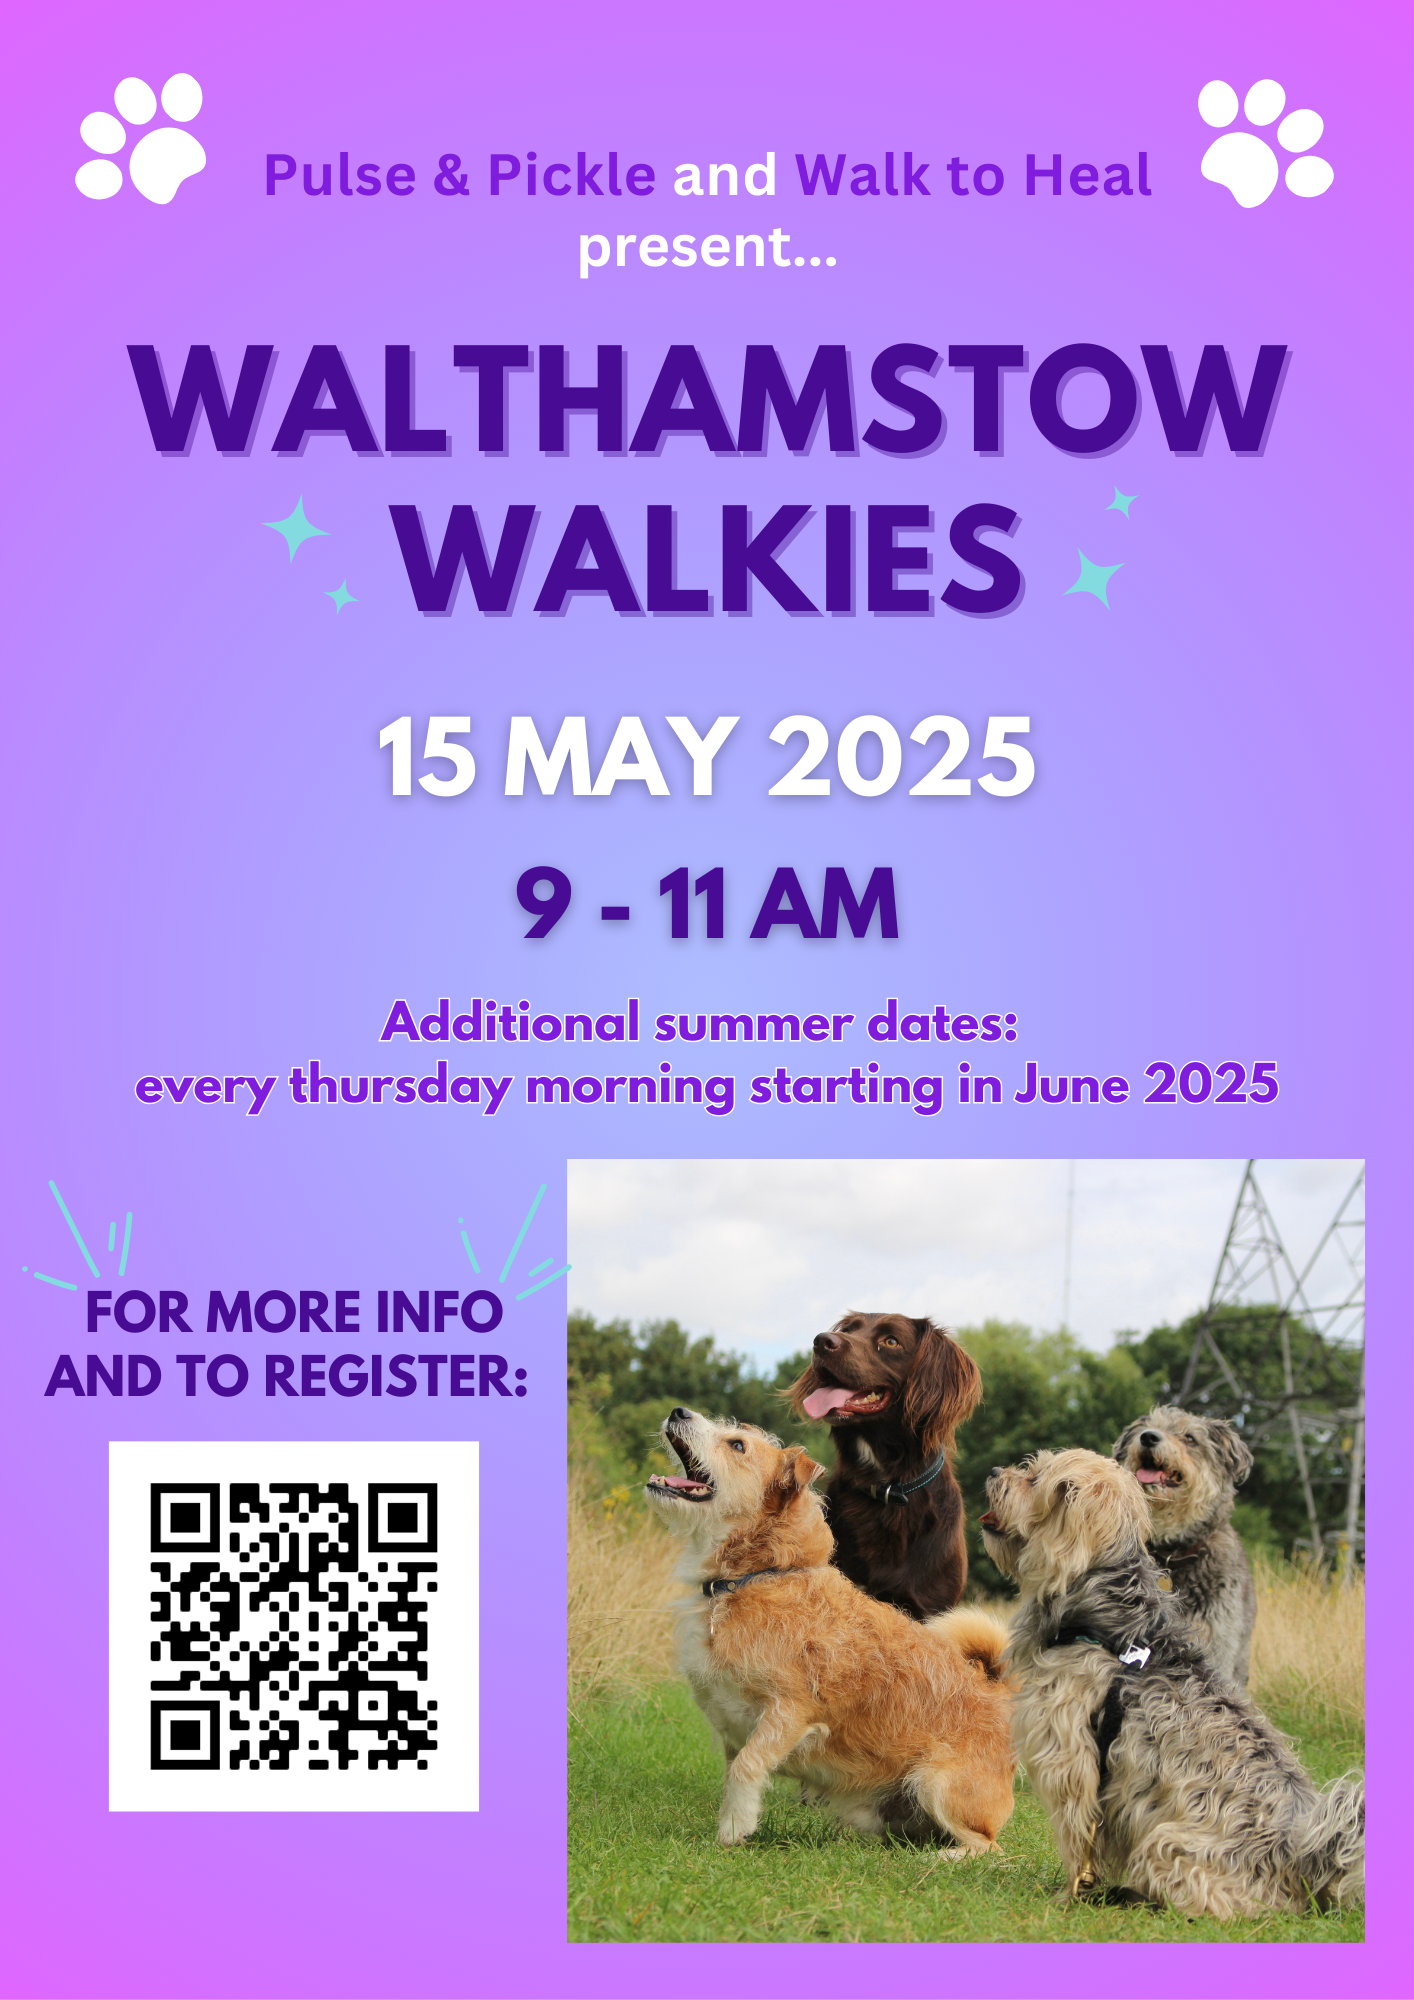
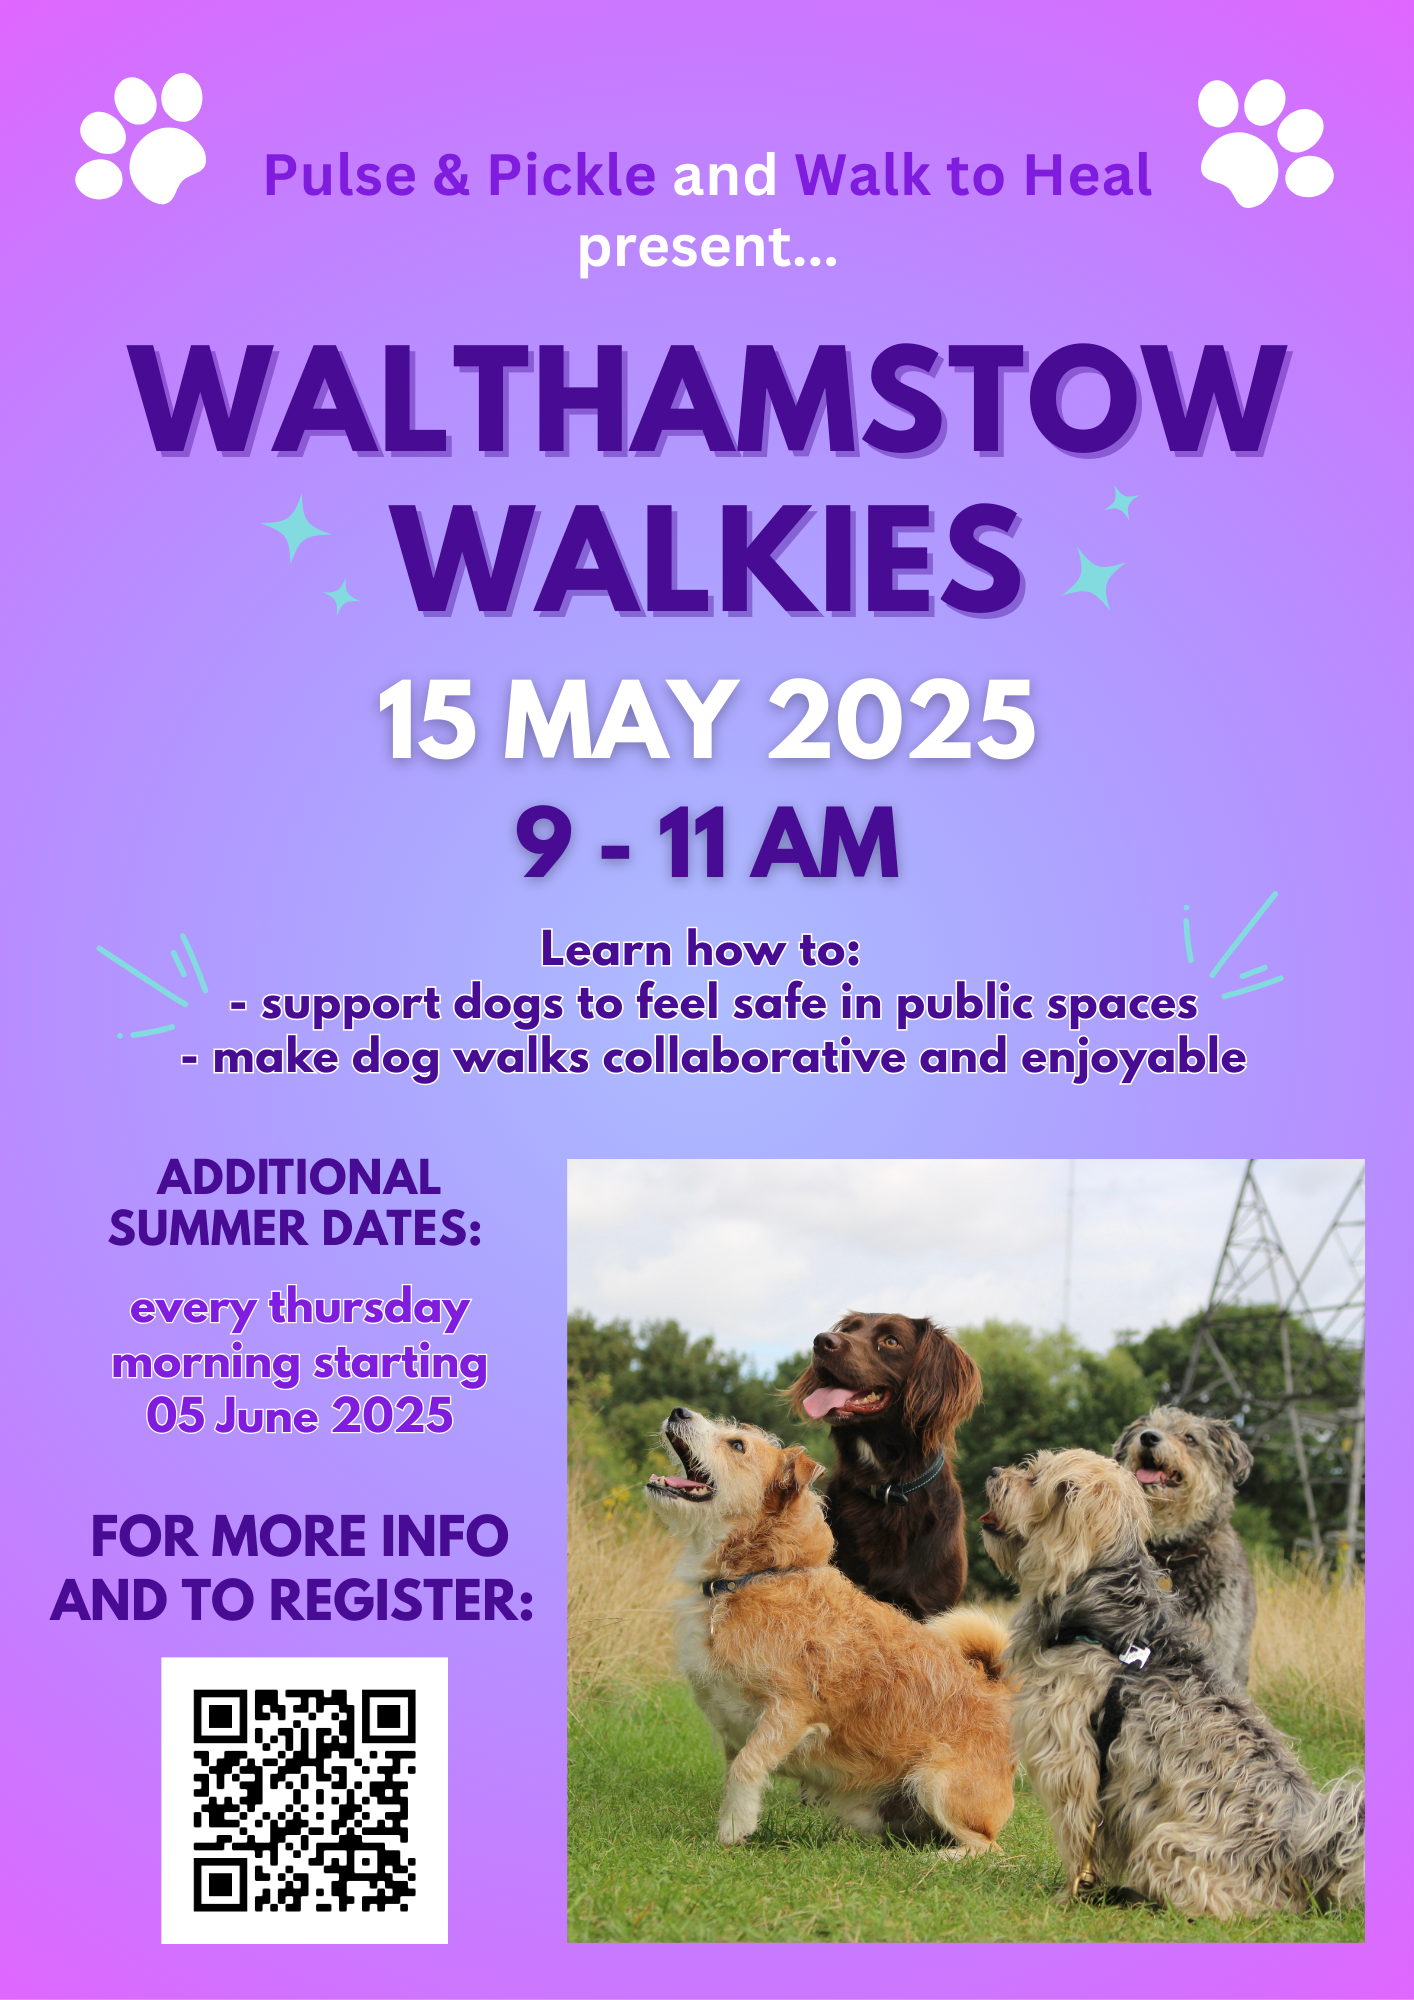
improved flyer

Changed region(s): [[0.0311, 0.341, 0.9024, 0.992]]

diff --git a/events.html b/events.html
@@ -74,7 +74,7 @@
 	<div class="values_table" style="justify-content: center">
 	  <div class="row">
 	    <div class="about_img" style="max-width: 450px"><img src="images/events/20250505_WalthamstowWalkies_flyer.png"></div>
-	    <p id="WW_15May" class="values_text" style="max-width: 650px; text-align: left"><span class="inclusive-sans-bold"></br>When:</span> 15 May 2025, 9am to 11am. Becomes a weekly Thursday morning event starting 5 June 2025.</br></br><span class="inclusive-sans-bold">Where:</span> Start at Pulse & Pickle (34 High St E17 7LD). </br></br><span class="inclusive-sans-bold">What:</span> Walthamstow Walkies is a group walk for dogs and their caretakers to connect, learn, and explore the Walthamstow Marshes together. We also invite folks who are not currently dog caretakers to join us, especially those who are interested in becoming dog walkers or who are considering getting a dog of their own. Participants meet at Pulse & Pickle before the walk to enjoy tea, coffee, cakes, and an opportunity to learn how to support dogs to feel safe in public spaces. The group will then head out to the Walthamstow Marshes to engage in some mindful, gentle exploration in nature, giving everyone an opportunity to receive advice and support on how to make dog walks collaborative and enjoyable. Participants are also invited to enjoy a post-walk meal at Pulse & Pickle. </br></br>Ticket prices range from £20 to £25 for dogs and their caretakers, but <span class="inclusive-sans-medium">no one will be turned away due to lack of funds – please email <a href="mailto:info@walktoheal.co.uk">info@walktoheal.co.uk</a> for a free place.</span> </br></br>Participants who are not joining with a dog of their own can register for free. <span class="inclusive-sans-medium">We prioritise places for migrants, refugees, and diaspora on these walks.</span> </br></br><span class="inclusive-sans-bold">For more info and to register: <a href="https://buytickets.at/walktoheal/1690343">https://buytickets.at/walktoheal/1690343</a></span> </br></br><span style="font-size:14px; line-height: 16px"><span class="inclusive-sans-light-italic">Walk to Heal also runs a sister event called Wansted Walkies on the following dates:</br>16 & 23 May, 9am to 11am</br>13 & 20 June, 9am to 11am</span></br><span class="inclusive-sans-italic">For more info, <a href="https://walktoheal.co.uk/wanstead-walkies/">check out Walk to Heal's website</a>.</span></span></p>
+	    <p id="WW_15May" class="values_text" style="max-width: 650px; text-align: left"><span class="inclusive-sans-bold"></br>When:</span> 15 May 2025, 9am to 11am. Becomes a weekly Thursday morning event starting 5 June 2025.</br></br><span class="inclusive-sans-bold">Where:</span> Start at Pulse & Pickle (34 High St E17 7LD). </br></br><span class="inclusive-sans-bold">What:</span> Walthamstow Walkies is a group walk for dogs and their caretakers to connect, learn, and explore the Walthamstow Marshes together. Participants meet at Pulse & Pickle before the walk to enjoy tea, coffee, cakes, and <span class="inclusive-sans-medium">an opportunity to learn how to support dogs to feel safe in public spaces.</span> The group will then head out to the Walthamstow Marshes to engage in some mindful, gentle exploration in nature while <span class="inclusive-sans-medium">receiving advice and support on how to make dog walks collaborative and enjoyable.</span> </br></br>We also invite folks who are not currently dog caretakers to join us, especially those who are interested in becoming dog walkers or who are considering getting a dog of their own. </br></br>Ticket prices range from £20 to £25 for dogs and their caretakers, but <span class="inclusive-sans-medium">no one will be turned away due to lack of funds – please email <a href="mailto:info@walktoheal.co.uk">info@walktoheal.co.uk</a> for a free place.</span> </br></br><span class="inclusive-sans-bold" style="color: #4c7031">Participants who are not joining with a dog of their own can register for free.</span> <span class="inclusive-sans-medium">We prioritise places for migrants, refugees, and diaspora on these walks.</span> </br></br><span class="inclusive-sans-bold">For more info and to register: <a href="https://buytickets.at/walktoheal/1690343">https://buytickets.at/walktoheal/1690343</a></span> </br></br><span style="font-size:14px; line-height: 16px"><span class="inclusive-sans-light-italic">Walk to Heal also runs a sister event called Wansted Walkies on the following dates:</br>16 & 23 May, 9am to 11am</br>13 & 20 June, 9am to 11am</span></br><span class="inclusive-sans-italic">For more info, <a href="https://walktoheal.co.uk/wanstead-walkies/">check out Walk to Heal's website</a>.</span></span></p>
 	  </div>
 	  <div class="row">
 	    <div class="about_img" style="max-width: 450px"><img src="images/events/20250505_HowAndWhyCoops_flyer.png"></div>
